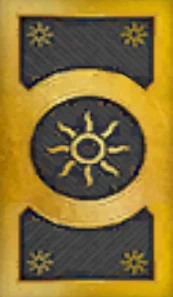
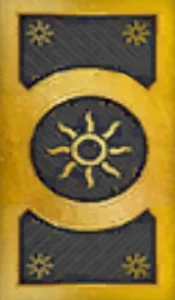
asdfasdsadas

diff --git a/public/gwent/gra.js b/public/gwent/gra.js
@@ -305,48 +305,58 @@ function renderPiles() {
     const myFaction = localStorage.getItem('faction') || "1";
     const pileAsset = getFactionReverse(myFaction);
 
-    // Twoja talia: 3457, 1654
-    const selfX = 3457 * scale + boardLeft;
-    const selfY = 1654 * scale + boardTop;
+    // Pozycje 4K: 3458, 1655 (Ty) i 3458, 132 (Przeciwnik)
+    const selfArea = { left: 3458, top: 1655, right: 3632, bottom: 1954 };
+    const oppArea = { left: 3458, top: 132, right: 3632, bottom: 431 };
 
-    // Talia przeciwnika: 3457, 131
-    const oppX = 3457 * scale + boardLeft;
-    const oppY = 131 * scale + boardTop;
+    const scaleW = window.innerWidth / 3837;
+    const scaleH = window.innerHeight / 2158;
 
-    const cardW = 180 * scale;
-    const cardH = 240 * scale;
+    const cardW = (selfArea.right - selfArea.left) * scaleW;
+    const cardH = (selfArea.bottom - selfArea.top) * scaleH;
 
-    const renderPile = (x, y, count, isOpponent) => {
+    const renderPile = (area, count, isOpponent) => {
         const container = document.createElement('div');
         container.style.position = 'absolute';
-        container.style.left = `${x}px`;
-        container.style.top = `${y}px`;
+        container.style.left = `${area.left * scaleW}px`;
+        container.style.top = `${area.top * scaleH}px`;
         container.style.width = `${cardW}px`;
         container.style.height = `${cardH}px`;
 
-        const img = document.createElement('img');
-        img.src = isOpponent ? getFactionReverse(window.opponentFaction || "0") : pileAsset;
-        img.style.width = '100%';
-        img.style.height = '100%';
-        img.style.objectFit = 'cover';
-        img.style.objectPosition = 'top';
-        img.style.borderRadius = `${8 * scale}px`;
-        container.appendChild(img);
+        const factionId = isOpponent ? (window.opponentFaction || "0") : myFaction;
+        const asset = getFactionReverse(factionId);
 
-        // Count overlay coordinates based on faction reverso layout
-        // ty: 3487, 1889 x 3587, 1963
-        // przeciwnik: 3483, 358 x 3583, 433
+        // Renderowanie kart w stosie (przesunięcie 0.5px na kartę)
+        // Maksymalnie np. 10 kart wizualnie, żeby nie obciążać DOM
+        const visualCount = Math.min(count, 15);
+        for (let i = 0; i < visualCount; i++) {
+            const img = document.createElement('img');
+            img.src = asset;
+            img.style.position = 'absolute';
+            img.style.left = `-${i * 0.5 * scaleW}px`;
+            img.style.top = `-${i * 0.5 * scaleH}px`;
+            img.style.width = '100%';
+            img.style.height = '100%';
+            img.style.objectFit = 'cover';
+            img.style.borderRadius = `${8 * scaleW}px`;
+            img.style.zIndex = i;
+            container.appendChild(img);
+        }
+
+        // Czarny obszar na licznik (90% krycia) - pozycje z infoo.txt skalowane do kontenera
+        // Gracz: 3487, 1889 x 3587, 1963 wewnątrz 3458, 1655 x 3632, 1954
+        // Przeciwnik: 3483, 358 x 3583, 433 wewnątrz 3458, 132 x 3632, 431
         let badgeX, badgeY, badgeW, badgeH;
         if (isOpponent) {
-            badgeX = (3483 - 3457) * scale;
-            badgeY = (358 - 131) * scale;
-            badgeW = (3583 - 3483) * scale;
-            badgeH = (433 - 358) * scale;
+            badgeX = (3483 - 3458) * scaleW;
+            badgeY = (358 - 132) * scaleH;
+            badgeW = (3583 - 3483) * scaleW;
+            badgeH = (433 - 358) * scaleH;
         } else {
-            badgeX = (3487 - 3457) * scale;
-            badgeY = (1889 - 1654) * scale;
-            badgeW = (3587 - 3487) * scale;
-            badgeH = (1963 - 1889) * scale;
+            badgeX = (3487 - 3458) * scaleW;
+            badgeY = (1889 - 1655) * scaleH;
+            badgeW = (3587 - 3487) * scaleW;
+            badgeH = (1963 - 1889) * scaleH;
         }
 
         const badge = document.createElement('div');
@@ -358,23 +368,24 @@ function renderPiles() {
         badge.style.background = 'rgba(0,0,0,0.9)';
         badge.style.color = '#c7a76e';
         badge.style.fontFamily = 'PFDinTextCondPro-Bold, sans-serif';
-        badge.style.fontSize = `${38 * scale}px`;
+        badge.style.fontSize = `${38 * scaleW}px`;
         badge.style.fontWeight = 'bold';
         badge.style.display = 'flex';
         badge.style.alignItems = 'center';
         badge.style.justifyContent = 'center';
+        badge.style.zIndex = 1000;
         badge.textContent = count;
         container.appendChild(badge);
 
         return container;
     };
 
-    overlay.appendChild(renderPile(selfX, selfY, drawPile.length, false));
-    overlay.appendChild(renderPile(oppX, oppY, opponentDeckCount, true));
+    overlay.appendChild(renderPile(selfArea, drawPile.length, false));
+    overlay.appendChild(renderPile(oppArea, opponentDeckCount, true));
 }
 
 function getFactionReverse(factionId) {
-    switch (factionId) {
+    switch (String(factionId)) {
         case "1": return "/gwent/assets/asety/polnoc.webp";
         case "2": return "/gwent/assets/asety/nilftgard_rewers.webp";
         case "3": return "/gwent/assets/asety/scoia'tel_rewers.webp";

diff --git a/public/index.html b/public/index.html
@@ -61,7 +61,7 @@
                 <span>Test Game</span>
             </div>
         </div>
-        <div class="info-button" onclick="showInfoScreen()">INFO Alpha 4.09
+        <div class="info-button" onclick="showInfoScreen()">INFO Alpha 4.1
         </div>
         <div id="testGameMsg"
             style="color:#c7a76e; font-family:'Gwent',serif; font-size:1.2em; text-align:center; margin-top:12px;">
@@ -168,7 +168,7 @@
     <!-- Strona I: Informacje -->
     <div class="info-screen" id="infoScreen" style="display: none;">
         <div class="info-content">
-            <h1>Informacje - Strona jest tworzona/work in progres 14.01.2026</h1>
+            <h1>Informacje - Strona jest tworzona/work in progres 18.02.2026</h1>
             <!-- Miejsce na Twoją treść -->
             <br>Ogólnie to robię sobie tę stronę 4fun i jak będą jakieś błędy czy coś, to sorry xD, nie umiem
             programować. Całą stronę od strony programowania robił Grok Copilot Gemini (GPT nie umie programować), ja
